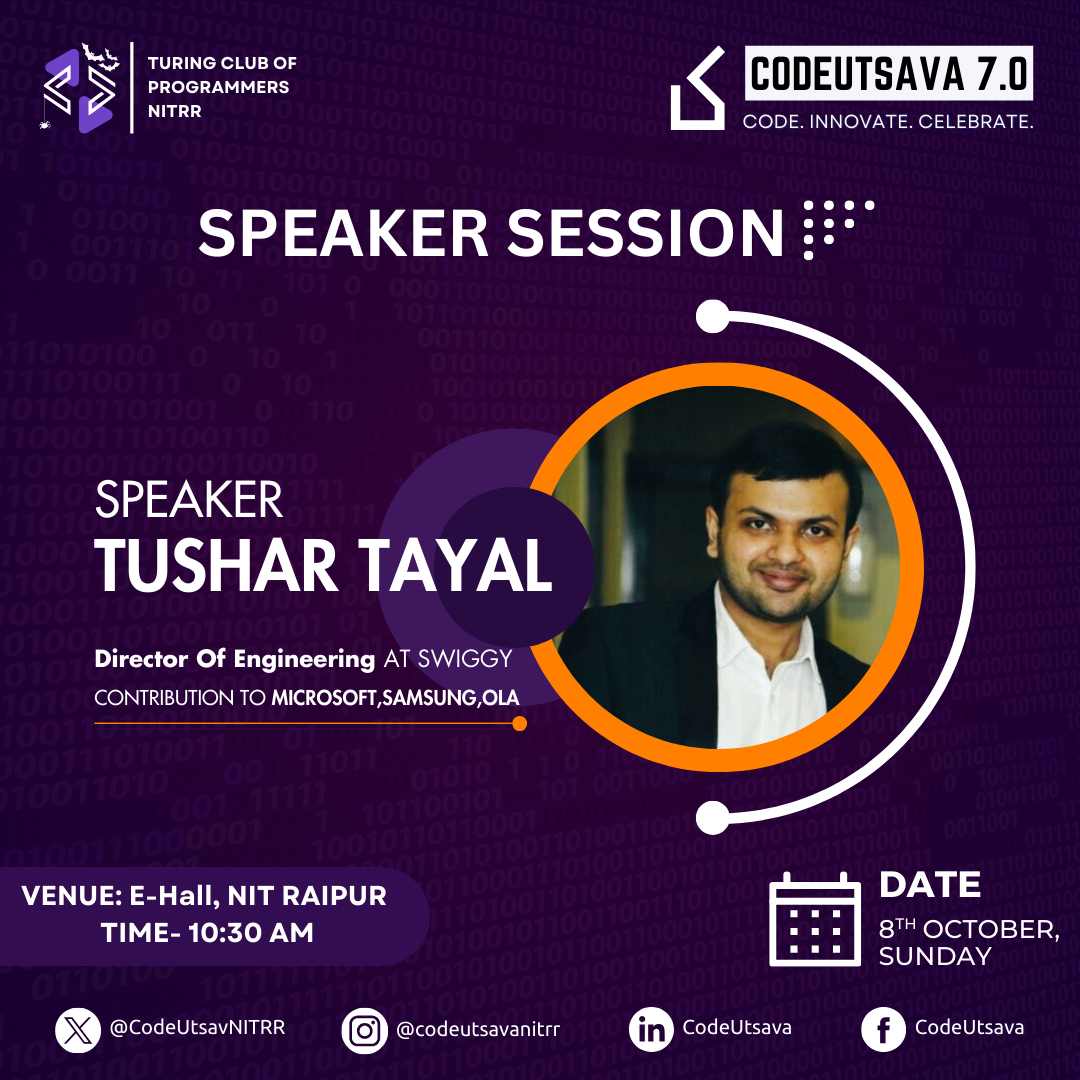
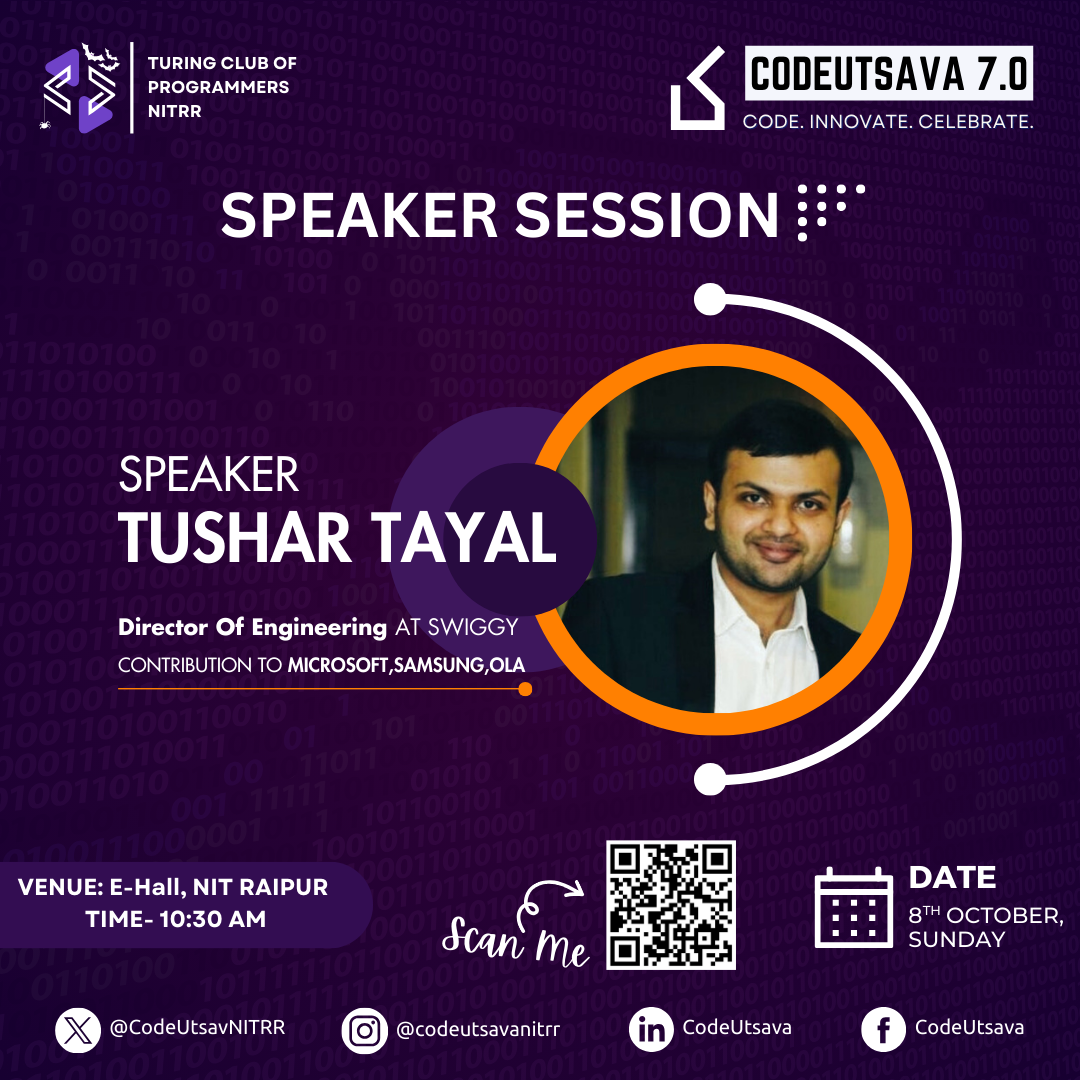
major changes

Changed region(s): [[0.0, 0.1528, 0.9778, 0.9167]]

diff --git a/src/pages/home/sections/section14/Section14.css b/src/pages/home/sections/section14/Section14.css
@@ -1,190 +1,200 @@
 .codeutsava__section14 {
-    padding-top: 2rem;
-    padding-bottom: 4rem;
-    margin-bottom: 4rem;  
-    color: white;
-    font-family: 'Poppins'; 
+  padding-top: 2rem;
+  padding-bottom: 4rem;
+  margin-bottom: 4rem;
+  color: white;
+  font-family: "Poppins";
 }
 
-.codeutsava__section14-body{
-    display: flex;
-    justify-content: center;
-    align-items: center;
+.codeutsava__section14-body {
+  display: flex;
+  justify-content: center;
+  align-items: center;
+  flex-direction: column;
+}
+
+.codeutsava__section14-menu1 {
+  display: flex;
+  justify-content: space-evenly;
+  align-items: center;
+  flex-direction: row;
+  gap: 2rem;
+  width: 100%;
+  padding: 0 64px;
+}
+
+.codeutsava__section14-menu1 div {
+  /* margin: 0 30px; */
+  width: 100%;
+}
+.codeutsava__section14-left,
+.codeutsava__section14-right {
+  padding: 0 10px;
+}
+
+.codeutsava__section14-title {
+  font-style: normal;
+  font-weight: 600;
+  font-size: 48px;
+  text-align: center;
+  letter-spacing: 1px;
+  margin: 60px 10px 60px 10px;
+  display: flex;
+  align-items: center;
+  justify-content: center;
+}
+
+.codeutsava__section14-title img {
+  width: auto;
+  position: relative;
+  height: 90px;
+}
+
+@media screen and (max-width: 1150px) {
+  .codeutsava__section14-body {
+    margin: 0 1rem;
+  }
+  .codeutsava__section14-menu1 {
+    gap: 1rem;
     flex-direction: column;
+    padding: 0;
+  }
+  .codeutsava__section14-title {
+    font-size: 36px;
+  }
 }
 
-.codeutsava__section14-menu1{
-    display: flex;
-    justify-content: space-evenly;
-    align-items: center;
-    flex-direction: row;
-    gap: 0rem;
-    width: 100%;
-    padding: 0 64px;
+@media screen and (max-width: 650px) {
+  .codeutsava__section14-body {
+    margin: 0 1rem;
+  }
+  .codeutsava__section14-menu11 {
+    max-width: 480px;
+    height: 820px;
+  }
+  .codeutsava__section14-title {
+    font-size: 34px;
+  }
 }
 
-.codeutsava__section14-menu1 div{
-    /* margin: 0 30px; */
-    width: 100%;
-}
-.codeutsava__section14-left, .codeutsava__section14-right{
-    padding: 0 10px;
-   
+@media screen and (max-width: 450px) {
+  .codeutsava__section14-menu1 {
+    max-width: 310px;
+  }
 }
 
-.codeutsava__section14-title{
-    font-style: normal;
-    font-weight: 600;
-    font-size: 48px;
-    text-align: center;
-    letter-spacing: 1px;
-    margin: 60px 10px 60px 10px;
-    display: flex;
-    align-items: center;
-    justify-content: center;
+.codeutsava__section14-menu2 {
+  width: 100%;
+  display: flex;
+  justify-content: center;
+  align-items: center;
+  flex-direction: column;
 }
 
-.codeutsava__section14-title img{
-    width: auto;
-    position: relative;
-    height: 90px;
+.codeutsava__section14-menu2 > div {
+  display: flex;
+  width: 100%;
+  justify-content: space-evenly;
+  padding: 0 100px;
 }
 
-@media screen and (max-width:1150px){
-    .codeutsava__section14-body{
-        margin: 0 1rem;
-    }
-    .codeutsava__section14-menu1{
-        gap: 1rem;
-        flex-direction: column;
-        padding: 0;
-    }
-    .codeutsava__section14-title{
-        font-size: 36px;
-    }
+@media (width<1300px) {
+  .codeutsava__section14-menu2 > div {
+    padding: 0;
+  }
 }
 
-
-@media screen and (max-width:650px){
-    .codeutsava__section14-body{
-        margin: 0 1rem;
-    }
-    .codeutsava__section14-menu11{
-        max-width: 480px;
-        height: 820px;
-    }
-    .codeutsava__section14-title{
-        font-size: 34px;
-    }
+.codeutsava__section14-format-card {
+  width: 25%;
+  margin: 0 20px;
+  background-color: #48586180;
+  border: 2px solid var(--secondary-c);
+  border-top-left-radius: 25px;
+  border-bottom-right-radius: 25px;
 }
 
-@media screen and (max-width:450px){
-    .codeutsava__section14-menu1{
-        max-width: 310px;
-    }   
+.codeutsava__section14-format-card-description {
+  display: flex;
+  justify-content: center;
+  align-items: center;
+}
+.codeutsava__section14-format-card-description span {
+  font-size: 40px;
+  font-weight: 600;
+  margin-right: 10px;
 }
 
-.codeutsava__section14-menu2{
-    width: 100%;
-    display: flex;
-    justify-content: center;
-    align-items: center;
-    flex-direction: column;
-}
-
-.codeutsava__section14-menu2>div{
-    display: flex;
-    width: 100%;
-    justify-content: space-evenly;
-    padding:0 100px;
-}
-
-@media(width<1300px){
-    .codeutsava__section14-menu2>div{
-        padding: 0;
-    }
-}
-
-.codeutsava__section14-format-card{
-    width: 25%;
-    margin: 0 20px;
-    background-color: #48586180;
-    border: 2px solid var(--secondary-c);
-    border-top-left-radius: 25px;
-    border-bottom-right-radius: 25px;
-}
-  
+@media screen and (max-width: 415px) {
+  .codeutsava__section14-format-card {
+    gap: 8px;
+    padding: 12px;
+  }
   .codeutsava__section14-format-card-description {
-    display: flex;
+    font-size: 12px;
+    text-align: center;
+    margin: 4px;
+  }
+  .codeutsava__section14 {
+    padding-bottom: 0;
+  }
+}
+
+.apexcharts-xaxis-label,
+.apexcharts-yaxis-label {
+  fill: #ffffffd0;
+  font-size: 12px;
+}
+
+.apexcharts-xaxis-title-text,
+.apexcharts-yaxis-title-text {
+  fill: var(--secondary-c);
+  font-size: 14px;
+  font-weight: 300;
+  letter-spacing: 1px;
+}
+.apexcharts-xaxis-title-text:hover,
+.apexcharts-yaxis-title-text:hover {
+  fill: var(--secondary-c);
+}
+
+@media (width<1000px) {
+  .codeutsava__section14-menu2 > div {
+    flex-direction: column;
+    padding: 0;
     justify-content: center;
     align-items: center;
   }
-  .codeutsava__section14-format-card-description span{
-    font-size: 40px;
-    font-weight: 600;
-    margin-right: 10px;
+  .codeutsava__section14-format-card {
+    width: 100%;
+    margin: 25px;
   }
-  
-  @media screen and (max-width: 415px) {
-    .codeutsava__section14-format-card{
-      gap: 8px;
-      padding: 12px;
-    }
-    .codeutsava__section14-format-card-description{
-      font-size: 12px;
-      text-align: center;
-      margin: 4px;
-    }
-    .codeutsava__section14 {
-        padding-bottom: 0;
-    }
-  }
-  
-  .apexcharts-xaxis-label, .apexcharts-yaxis-label {
-    fill: #ffffffd0;
-    font-size: 12px;
+  .apexcharts-xaxis-label,
+  .apexcharts-yaxis-label {
+    font-size: 9px;
   }
 
-  .apexcharts-xaxis-title-text, .apexcharts-yaxis-title-text {
-    fill: var(--secondary-c);
-    font-size: 14px;
+  .apexcharts-xaxis-title-text,
+  .apexcharts-yaxis-title-text {
+    font-size: 11px;
     font-weight: 300;
-    letter-spacing: 1px;
   }
-  .apexcharts-xaxis-title-text:hover, .apexcharts-yaxis-title-text:hover {
-    fill: var(--secondary-c);
+  .apexcharts-xaxis-title-text {
+    transform: translateY(-42px) !important;
   }
-
-  @media(width<1000px) {
-    .codeutsava__section14-menu2>div{
-        flex-direction: column;
-        padding: 0;
-        justify-content: center;
-        align-items: center;
-    }
-    .codeutsava__section14-format-card{
-        width: 100%;
-        margin:25px;
-    }
-    .apexcharts-xaxis-label, .apexcharts-yaxis-label {
-        font-size: 9px;
-      }
-    
-      .apexcharts-xaxis-title-text, .apexcharts-yaxis-title-text {
-        font-size: 11px;
-        font-weight: 300;
-      }
-      .codeutsava__section14-left, .codeutsava__section14-right{
-        padding: 0;
-    }
+  .codeutsava__section14-left,
+  .codeutsava__section14-right {
+    padding: 0;
   }
-
-  .apexcharts-menu-icon, .apexcharts-reset-icon, .apexcharts-zoom-icon {
-    transform: scale(.85);
-    display: flex;
-    justify-content: end;
 }
 
-.apexcharts-menu-item{
-    color: black;
+.apexcharts-menu-icon,
+.apexcharts-reset-icon,
+.apexcharts-zoom-icon {
+  transform: scale(0.85);
+  display: flex;
+  justify-content: end;
+}
+
+.apexcharts-menu-item {
+  color: black;
 }

diff --git a/src/components/statistics/Statistics.js b/src/components/statistics/Statistics.js
@@ -66,6 +66,22 @@ const Statistics = () => {
                   DEVELOPERS
                 </p>
               </div>
+              <div className="codeutsava__section-statistics-format-card">
+                <p className="codeutsava__section-statistics-format-card-description">
+                  <span style={{ color: "var(--secondary-c)" }}>
+                    {counterOn && (
+                      <CountUp
+                        start={100}
+                        end={1000}
+                        duration={1.5}
+                        delay={0}
+                      />
+                    )}
+                    +
+                  </span>{" "}
+                  VISITORS
+                </p>
+              </div>
             </div>
           </div>
         </ScrollTrigger>

diff --git a/src/assets/data/eventsData.js b/src/assets/data/eventsData.js
@@ -6,7 +6,7 @@ const events = [
     title: "Speaker Session",
     date: "8th October",
     img: event1,
-    link: "",
+    link: "https://docs.google.com/forms/d/e/1FAIpQLSes9na9VNj7XOFOUYNh_8sQFDA-gmEA0wK2fAPiUT635yvy_A/viewform",
   },
   {
     title: "Coming Soon!",

diff --git a/src/pages/home/sections/section14/Section14.js b/src/pages/home/sections/section14/Section14.js
@@ -40,7 +40,7 @@ const Section14 = () => {
   };
 
   const getChartHeight = () => {
-    const smallScreenHeight = 250;
+    const smallScreenHeight = 300;
     const largeScreenHeight = 400;
   
     if (window.innerWidth <= 450) {
